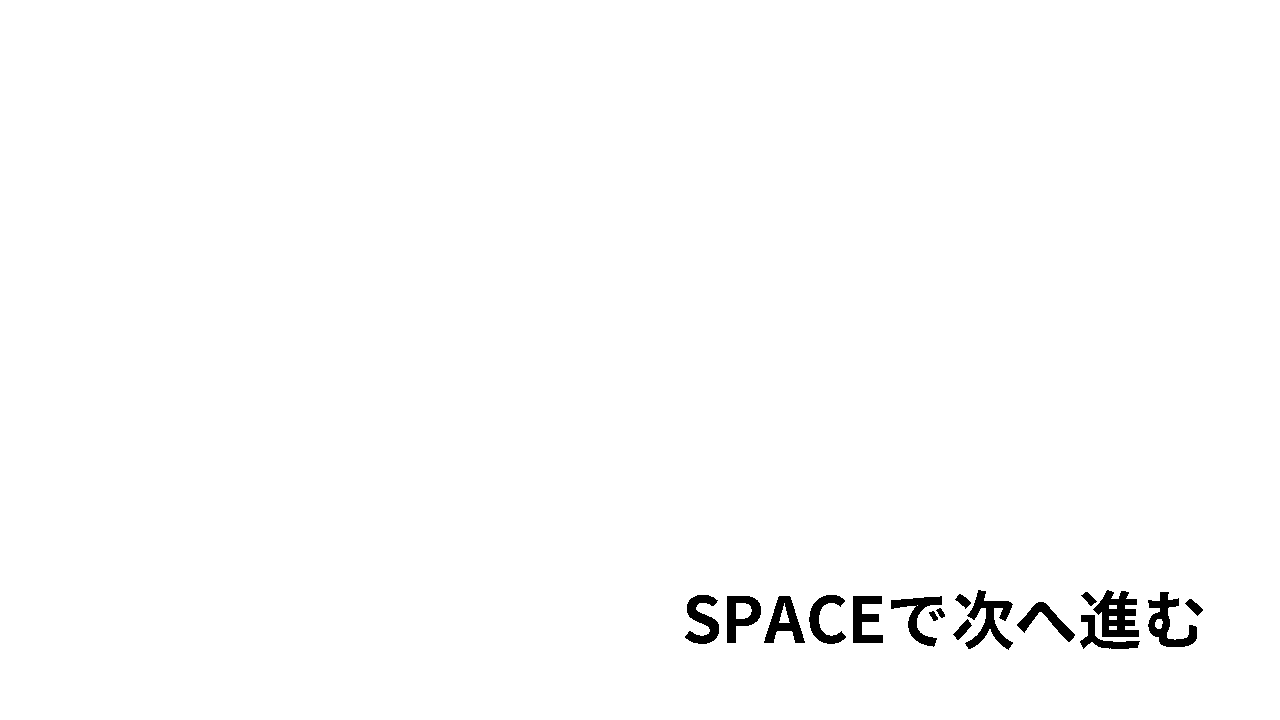
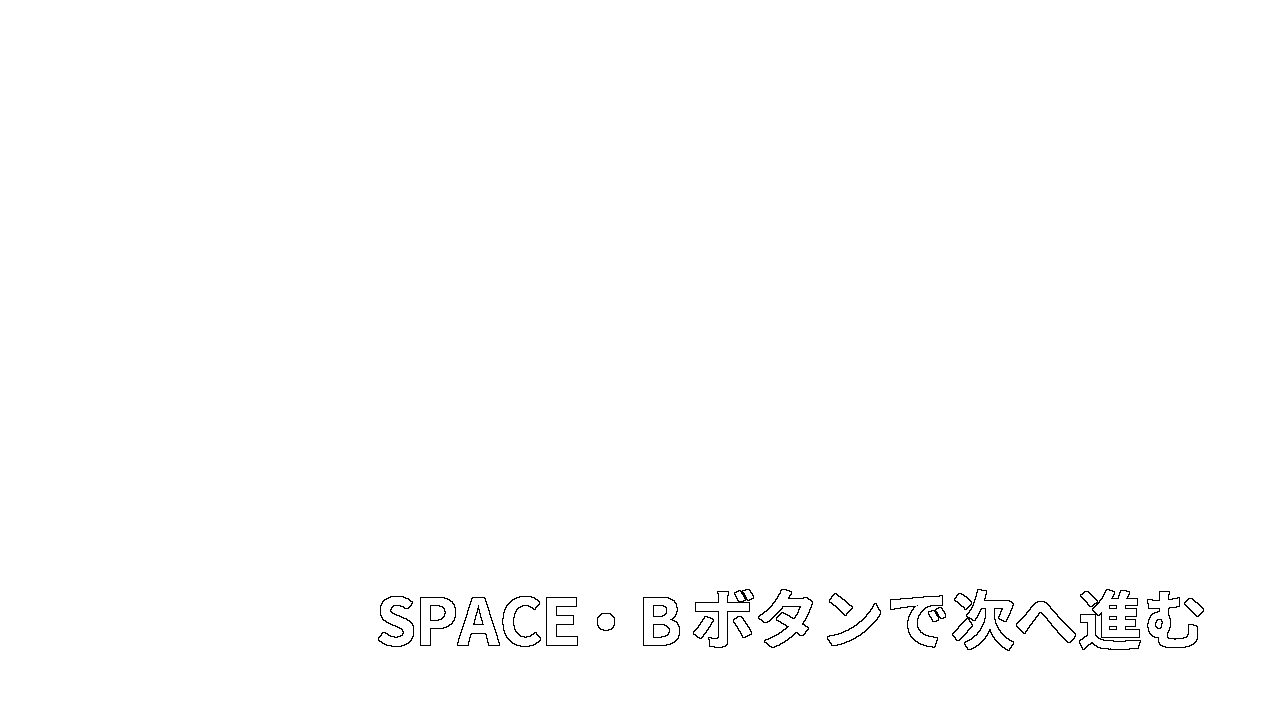
鍵の個数にかかわらず脱出出来てしまったので直した

Changed region(s): [[0.5, 0.825, 0.9375, 0.9167], [0.3125, 0.825, 0.4062, 0.8861], [0.4062, 0.825, 0.4375, 0.8556]]

diff --git a/Project/AllGameScene/SampleScene/SampleScene.cpp b/Project/AllGameScene/SampleScene/SampleScene.cpp
@@ -153,8 +153,8 @@ void SampleScene::Initialize() {
 	
 
 	uint32_t spaceToNextTextureHandle[SPACE_TO_NEXT_QUANTITY_] = {};
-	spaceToNextTextureHandle[0] = TextureManager::GetInstance()->LoadTexture("Resources/Game/Explanation/Explanation1.png");
-	spaceToNextTextureHandle[1] = TextureManager::GetInstance()->LoadTexture("Resources/Game/Explanation/Explanation2.png");
+	spaceToNextTextureHandle[0] = TextureManager::GetInstance()->LoadTexture("Resources/Game/Explanation/ExplanationNext1.png");
+	spaceToNextTextureHandle[1] = TextureManager::GetInstance()->LoadTexture("Resources/Game/Explanation/ExplanationNext2.png");
 
 	for (uint32_t i = 0; i < SPACE_TO_NEXT_QUANTITY_; ++i) {
 		spaceToNext_[i].reset(Sprite::Create(spaceToNextTextureHandle[i], { .x=0.0f,.y = 0.0f }));
@@ -652,32 +652,37 @@ void SampleScene::Update(GameManager* gameManager) {
 			uint32_t playerKeyQuantity = player_->GetHavingKey();
 			if (playerKeyQuantity >= keyManager_->GetMaxKeyQuantity()) {
 				escapeText_->SetInvisible(false);
-			}
 
 
-			//コントローラーのBボタンを押したら脱出のフラグがたつ
-			if (Input::GetInstance()->GetJoystickState(joyState) == true) {
 
-				//Bボタンを押したとき
-				if (joyState.Gamepad.wButtons & XINPUT_GAMEPAD_B) {
-					bTriggerTime_ += 1;
+				//コントローラーのBボタンを押したら脱出のフラグがたつ
+				if (Input::GetInstance()->GetJoystickState(joyState) == true) {
+
+					//Bボタンを押したとき
+					if (joyState.Gamepad.wButtons & XINPUT_GAMEPAD_B) {
+						bTriggerTime_ += 1;
+
+					}
+					if ((joyState.Gamepad.wButtons & XINPUT_GAMEPAD_B) == 0) {
+						bTriggerTime_ = 0;
+					}
+
+					if (bTriggerTime_ == 1) {
+						//脱出
+						isEscape_ = true;
+					}
 
 				}
-				if ((joyState.Gamepad.wButtons & XINPUT_GAMEPAD_B) == 0) {
-					bTriggerTime_ = 0;
-				}
-
-				if (bTriggerTime_ == 1) {
+				//SPACEキーを押したら脱出のフラグがたつ
+				if (Input::GetInstance()->IsPushKey(DIK_SPACE) == true) {
 					//脱出
 					isEscape_ = true;
 				}
 
 			}
-			//SPACEキーを押したら脱出のフラグがたつ
-			if (Input::GetInstance()->IsPushKey(DIK_SPACE) == true) {
-				//脱出
-				isEscape_ = true;
-			}
+
+
+			
 		}
 		else {
 			escapeText_->SetInvisible(true);

diff --git a/Project/AllGameScene/SampleScene/SampleScene.h b/Project/AllGameScene/SampleScene/SampleScene.h
@@ -187,6 +187,7 @@ private:
 	bool isDisplayUI_ = false;
 
 
+
 	//脱出テキスト
 	std::unique_ptr<Sprite> escapeText_ = nullptr;
 
